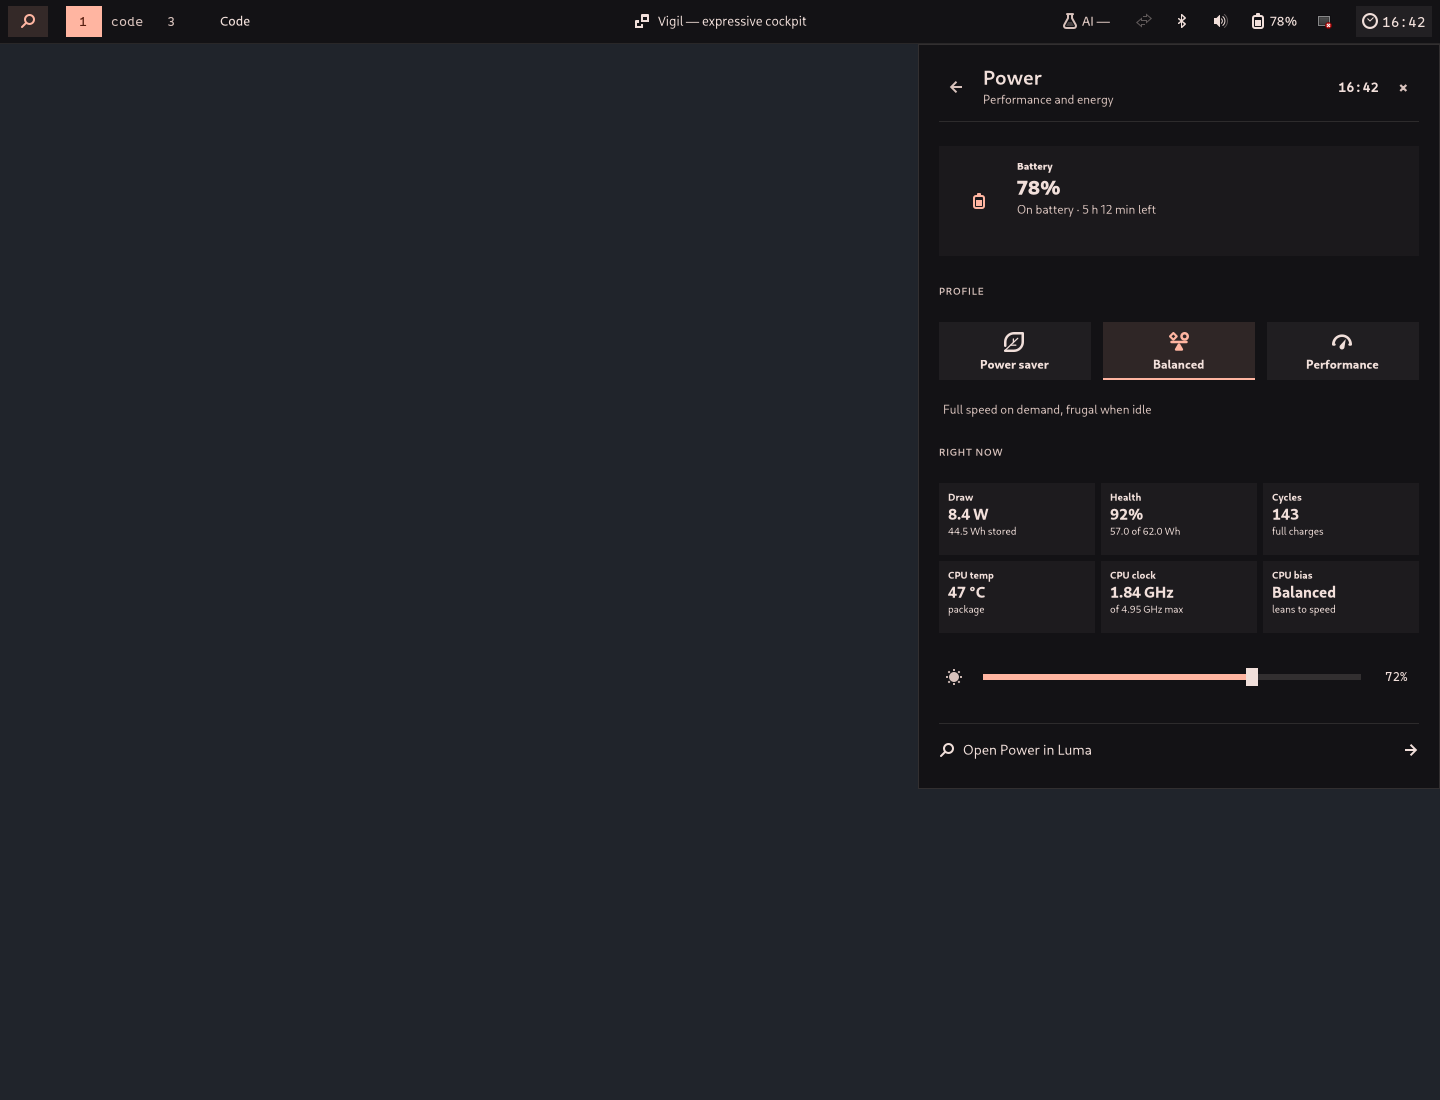
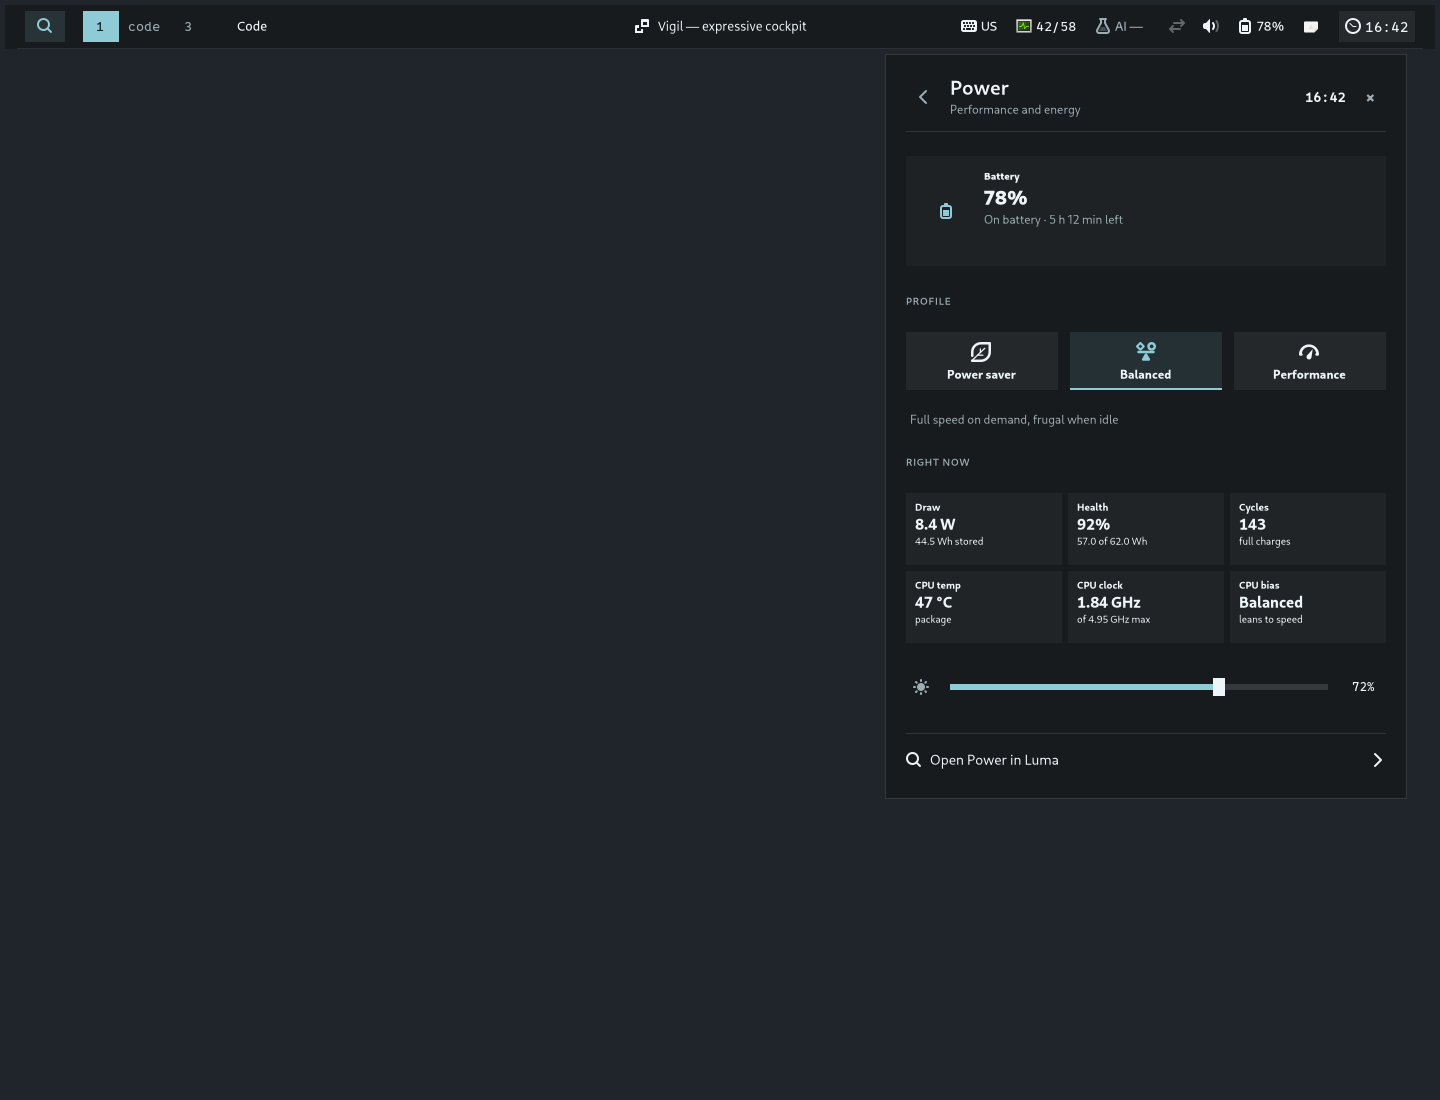
docs: simplify README and show default appearance

diff --git a/README.md b/README.md
@@ -1,301 +1,54 @@
 # Vigil
 
-Vigil is a Wayland-native desktop cockpit: it watches the session, keeps
-urgent context visible, and hands deeper searches and actions to Luma.
+A desktop bar and notification center for Hyprland and Niri. Includes workspaces,
+media controls, timers, quick settings, and system status.
+
+## Setup
+
+Requires Rust, a C compiler, `pkg-config`, GTK 4.20+, and gtk4-layer-shell.
+Install their development packages before building. The stylesheet uses Cantarell
+and Symbols Nerd Font.
+
+```sh
+git clone https://github.com/robinp7720/Vigil.git
+cd Vigil
+cargo build --release --locked
+install -Dm755 target/release/vigil ~/.local/bin/vigil
+mkdir -p ~/.config/vigil
+cp config.example.toml ~/.config/vigil/config.toml
+curl -fL https://raw.githubusercontent.com/robinp7720/dotfiles/master/bar/style.css \
+  -o ~/.config/vigil/style.css
+```
+
+Set `primary_output` in `~/.config/vigil/config.toml` to your monitor name
+(`hyprctl monitors` or `niri msg outputs`). Run `~/.local/bin/vigil` from your
+Wayland session, then add it to your compositor's startup configuration.
+Add `~/.local/bin` to your `PATH` to use the commands below.
+Vigil provides notifications, so stop any other notification daemon first.
+
+Audio uses `wpctl` and `pactl`; media uses `playerctl`; network controls use
+NetworkManager. Bluetooth and power profiles use BlueZ and power-profiles-daemon.
+Install `brightnessctl` for backlight controls and [Luma](https://github.com/robinp7720/Luma)
+for desktop search.
+
+## Usage
+
+Click the bar's status icons to open quick settings, or run:
+
+```sh
+vigil control-center toggle
+vigil timer start 25m --label Focus
+vigil media play-pause
+```
+
+Configuration options are in [config.example.toml](config.example.toml).
+Edit `~/.config/vigil/style.css` for styling; an optional `colors.css` overrides
+the palette. Run `vigil --help` for more commands.
 
 ## Screenshots
 
-Preview scenes with sample data and the dotfiles theme; colors and geometry are configurable.
+Example config and the stylesheet installed above, with sample status data.
 
-**Quick Settings** — desktop controls, system status, and a focus timer.
+![Vigil bar and quick settings](docs/screenshots/quick-settings.png)
 
-![Vigil bar and Quick Settings showing audio, connectivity, power, and a focus timer](docs/screenshots/quick-settings.png)
-
-**Power** — battery status, power profiles, and hardware statistics.
-
-![Vigil Power page showing battery charge, power profiles, and energy statistics](docs/screenshots/power.png)
-
-## Prerequisite release build
-
-Build the supervised binary before installing the desktop wiring:
-
-```bash
-cargo build --release
-```
-
-From the dotfiles repository root, use
-`cargo build --manifest-path tools/bar/Cargo.toml --release`.
-
-`config.example.toml` documents the complete tracked configuration shape. The
-dotfiles checkout installs its live configuration at `~/.config/vigil/config.toml`.
-
-`setup.sh` only links `%h/.local/bin/vigil` when
-`tools/bar/target/release/vigil` already exists.
-
-## Dotfiles integration
-
-```bash
-./setup.sh
-systemctl --user daemon-reload
-```
-
-Hyprland and Niri restart `vigil.service` at session startup after their
-environment import steps.
-
-The user-only `${XDG_RUNTIME_DIR}/vigil.sock` also provides live desktop-context snapshots
-and validated actions to Luma. Quick-settings footers launch Luma with the current page and output;
-Luma can open the corresponding detailed quick-settings page through the same socket.
-
-The lockscreen uses two deliberately narrow IPC commands:
-
-```bash
-vigil control-center open
-vigil control-center toggle
-vigil control-center open --context notifications --output DP-5
-vigil control-center close
-vigil lockscreen snapshot
-```
-
-When no output is supplied, the control center opens on the currently focused
-output. A single quick-settings window is retargeted between outputs.
-`toggle` dismisses a visible panel on the same output; a specific `--context`
-switches to that page first if needed. Another output retargets the panel.
-A transient on-screen display confirms hardware keys and warns before an idle
-lock. The CLI reads the level itself, so the compositor binding runs it after
-the change:
-
-```bash
-wpctl set-volume @DEFAULT_AUDIO_SINK@ 0.05+ && vigil osd volume
-vigil osd microphone
-vigil osd brightness
-vigil osd lock-countdown --seconds 30   # hypridle, 30s before locking
-vigil osd hide                          # hypridle on-resume
-```
-
-The display is a click-through `vigil-osd` layer near the bottom of the
-focused output; Hyprland animates its arrival.
-
-Vigil is the desktop's single source for the active media player. Scripts and
-Luma ask it instead of choosing a player themselves, so the bar, the lock
-screen and the media keys always act on the same one:
-
-```bash
-vigil media get          # {"type":"media","media":{...}} or "media":null
-vigil media play-pause   # also next / previous
-```
-
-Media updates follow playerctl events and reconcile with the current players
-every two seconds to discard vanished players. Exact player instance names keep
-selection and transport controls aligned when several instances are running.
-
-Every bar also has a desktop-search button:
-left-click opens Luma under the button on that output, and right-click opens window search.
-When supervised by systemd, launched applications get independent user scopes
-with the current Wayland environment. They survive a Vigil restart, and exited
-launcher processes are reaped without blocking the desktop controls.
-
-The snapshot contains only an active timer label and remaining duration,
-network and power summaries, and the unread-notification count. It never
-contains notification titles, bodies, senders, or actions. The shared session
-lock script closes Vigil before Hyprlock starts so an open panel cannot remain
-above the lock transition.
-
-Time & Focus provides a locale-aware month calendar with an on-demand daily agenda, an Evolution
-handoff for event editing, quick timer presets, and labeled custom timers. The agenda uses the
-range-based `scripts/next_event.sh --agenda-json` contract while the compact next-event modes stay
-available to the urgency card and lock screen.
-
-The calendar's weekday/month names follow the system locale by default; set `locale` in
-`config.toml` (e.g. `locale = "de_DE.UTF-8"`) to override it independently of the environment.
-
-## Motion
-
-The center island, quick settings, its detail pages, and notification toasts morph on
-springs instead of crossfading or sliding. `experience.motion = "bold"` allows a slight
-overshoot; `"calm"` settles without one. Quick settings grows out of the bar item that
-opened it and collapses back into it; overview tiles expand into their detail pages.
-`vigil control-center toggle` and `open` without a button origin morph from the right
-status cluster on the primary output, or from a centered scale on other outputs.
-Interrupting a morph reverses it from the shape on screen. Disabling GTK animations
-(`gtk-enable-animations=false`) makes every change instant, and
-`vigil control-center close` always hides immediately so nothing lingers above the lock
-screen. Toast input regions follow their visible shapes, so clicks beside them reach
-the windows underneath. While quick settings is open, transparent dismissal surfaces
-cover every output behind the panel. Clicking anywhere outside the panel, including
-the bar or another monitor, closes quick settings and consumes that click. These
-surfaces are removed when the panel closes.
-
-## Storage usage
-
-Open **Storage** from Quick Settings or System Resources to see each local
-filesystem's used, total, and available space. Usage bars turn amber at 75% and
-red at 90%. Available space excludes filesystem reservations, so usage matches
-`df` and reflects the space applications can actually use.
-
-Snapshots refresh every 30 seconds using GNU `df` (coreutils), with bounded
-execution off the UI thread. Network mounts, temporary filesystems, and duplicate
-mounts are omitted. Failed or stale reads are labeled; the last snapshot remains
-visible. Set `freshness.storage_seconds` to change the stale deadline (default 90).
-
-```bash
-vigil control-center open --context storage
-```
-
-## AI token usage
-
-The `ai_usage` module shows today's combined Codex and Claude Code token count on
-the primary bar. Hover for provider totals; click for a dedicated graphical
-breakdown with a provider-share ring, stacked token-composition bars, and Codex
-quota meters. Hover a count for its exact value. The same page is linked from
-System Resources. Days follow the computer's local timezone.
-
-Quota cards estimate time left at the recent consumption pace and compare it
-with the next reset. The earliest estimated exhaustion before a reset also
-appears beside the bar's token count. The estimate uses reported quota percentage
-changes over the last hour, requiring at least 15 minutes and two percentage
-points of change. It reconstructs from logs after restart and across midnight;
-different quota windows and resets are kept separate. Reports older than 15
-minutes pause the estimate, and flat usage is not treated as unlimited time.
-These are approximate forecasts assuming the recent pace continues. Claude's
-local logs lack quota data, so its remaining-time estimate is unavailable.
-
-Vigil reads local JSONL session records every 15 seconds from
-`${CODEX_HOME:-~/.codex}/{sessions,archived_sessions}` and
-`${CLAUDE_CONFIG_DIR:-~/.claude}/projects`, including subagent logs. It reads new
-bytes incrementally, deduplicates repeated usage reports, and handles sessions
-resumed across midnight. No credentials or network access are needed. The module
-does not store prompts or responses.
-
-Totals include cached input; reasoning is already included in Codex output.
-These are locally recorded tokens, not billing totals or an account-wide usage
-meter. Codex quota information is labeled with its report time; Claude's session
-records do not provide account quota information. A provider with no activity
-today shows zero; missing logs are marked unavailable.
-
-Run `vigil ai-usage` for the same daily accounting as JSON. Remove `"ai_usage"`
-from `[modules].full` to hide the indicator. Custom provider homes must be in the
-environment of `vigil.service` as well as any interactive shell.
-
-## Native notifications
-
-Vigil owns `org.freedesktop.Notifications`. New notifications grow out of the
-center island into a measured three-card stack at the top center of the focused
-output while the island keeps its current context. Outputs without a center
-island grow toasts from a top-center pill. Notifications remain searchable in a richer
-seven-day/100-item inbox. On Hyprland, fullscreen windows move toasts to the
-top-right with matching 16px top/right insets and no island morph. Leaving fullscreen
-restores the normal below-bar placement. Maximized windows keep the normal placement.
-Toast timeouts pause on hover; critical notifications remain visible until dismissed.
-
-Open the notification status button to mark the inbox read. Right-click it to
-toggle Do Not Disturb. DND queues low and normal notifications silently while
-letting critical alerts through. Images are decoded into private manager-owned
-cache files; progress, markup, hyperlinks, sounds, replacement IDs, and up to
-three application actions are handled natively. State stays
-user-only under `${XDG_STATE_HOME:-~/.local/state}/vigil/notifications.json`;
-cached image data lives under `${XDG_CACHE_HOME:-~/.cache}/vigil/notifications`.
-Vigil intentionally starts with a clean history and does not import another
-notification server's data.
-
-## Expressive cockpit and local routines
-
-Vigil uses keyed widgets and a shared motion language for workspace, context,
-status, and quick-settings changes. Bold motion and meaningful live-state
-loops are enabled by the tracked configuration, while GTK's reduced-motion
-setting disables transforms and looping effects.
-
-The center island may offer one explicit action when live state suggests a
-useful next step. Vigil never executes a suggestion automatically. The control
-center shows up to three suggestions with their reasons, actions, and dismissal.
-The section is hidden when no suggestions are available.
-
-Successful discrete actions can become routine suggestions after three
-matching occurrences on distinct days. Routine observations are stored
-user-only at `${XDG_STATE_HOME:-~/.local/state}/vigil/routines.json`, expire
-after 30 days by default, and never leave the machine.
-
-Routine learning is configured only through `[routines] enabled` in
-`~/.config/vigil/config.toml` (default: `true`). Setting it to `false` stops
-recording and routine suggestions without deleting existing history. Reload
-with `systemctl --user kill --signal=HUP vigil.service`. The former UI pause
-flag is ignored; the config now determines whether learning is enabled.
-
-Run `vigil routines clear` to erase routine observations and dismissal feedback.
-This requires the running Vigil service and updates both disk and the UI.
-It does not change configuration: if learning is enabled, subsequent eligible
-actions begin a fresh history. A failed save returns an error.
-
-
-For deterministic visual review in a graphical Wayland session:
-
-```bash
-cargo run -- --config ../../bar/config.toml __preview --scenario suggestion
-cargo run -- --config ../../bar/config.toml __preview --scenario control-center
-cargo run -- --config ../../bar/config.toml __preview --scenario ai-usage
-```
-
-## Migration from Cockpit Bar
-
-After building Vigil, run `./setup.sh` to install the new binary, configuration,
-and service links and remove their old managed `cockpit-bar` links. Stop the old
-process once before starting Vigil:
-
-```bash
-systemctl --user stop cockpit-bar.service || true
-systemctl --user daemon-reload
-systemctl --user restart vigil.service
-```
-
-Vigil imports existing timers from
-`${XDG_STATE_HOME:-~/.local/state}/cockpit-bar/timers.json` when its own state
-file does not exist.
-
-Hyprland integration uses the native Lua IPC API (Hyprland 0.55+ with a Lua configuration).
-
-## User styling
-
-Vigil reads `style.css` and optional `colors.css` beside its configuration (with
-fallback to `${XDG_CONFIG_HOME:-~/.config}/vigil`). Send SIGHUP to reload CSS.
-Native clipping and layer-shell geometry use a `[style]` table in `config.toml`:
-
-```toml
-[style]
-surface_margin = 5
-bar_padding = 12
-panel_margin = 28
-panel_bottom_margin = 32
-panel_radius = 18
-card_radius = 14
-context_radius = 12
-shadows = true
-```
-
-These are the original floating, rounded defaults. Dimensions accept integers
-from 0 to 256. Set dimensions to zero and `shadows = false` for an attached,
-square shell, and match the CSS radii and fills. Restart Vigil for native
-geometry changes; SIGHUP reports that a restart is required without partially
-applying geometry.
-
-## Runtime reliability and development
-
-Short-lived service actions, compositor commands, and audio queries have a
-10-second deadline and an 8 MiB limit per output stream. Audio queries and
-service actions also respond to shutdown cancellation. Interrupted or timed-out
-utilities are killed as a process group and their direct child is reaped;
-application launches retain their independent lifetime.
-
-Audio subscriptions combine queued event bursts before refreshing the snapshot.
-Source updates and action completions wake GTK through a nonblocking socket;
-local context changes and monitor changes use the same wakeup. A one-second
-maintenance tick handles expiry and configuration reload checks. The channel
-relay threads check shutdown once per second when idle.
-
-Control requests are limited to 64 KiB, with a 50 ms absolute read deadline.
-Response writes have a 250 ms absolute deadline. Clients bound response reads
-to six seconds and 16 MiB. These limits prevent incomplete requests and stalled
-readers from indefinitely holding the serial control worker.
-
-The control-center coordinator and public spec types remain in
-`src/ui/control_center.rs`; audio/media, connectivity, power, and calendar/timer
-page implementations live in `src/ui/control_center/`. Existing public
-construction and spec APIs remain available.
+![Vigil battery status and power profiles](docs/screenshots/power.png)
